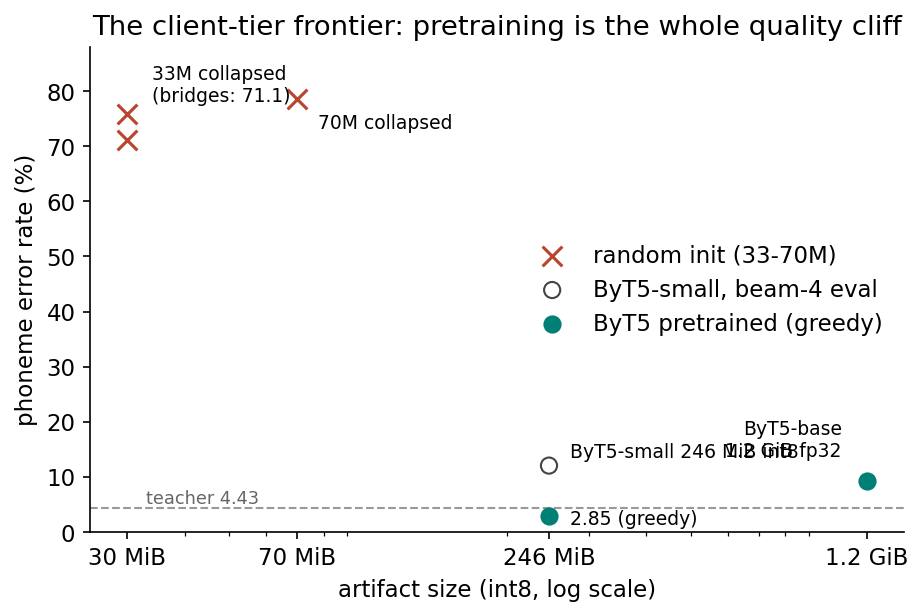
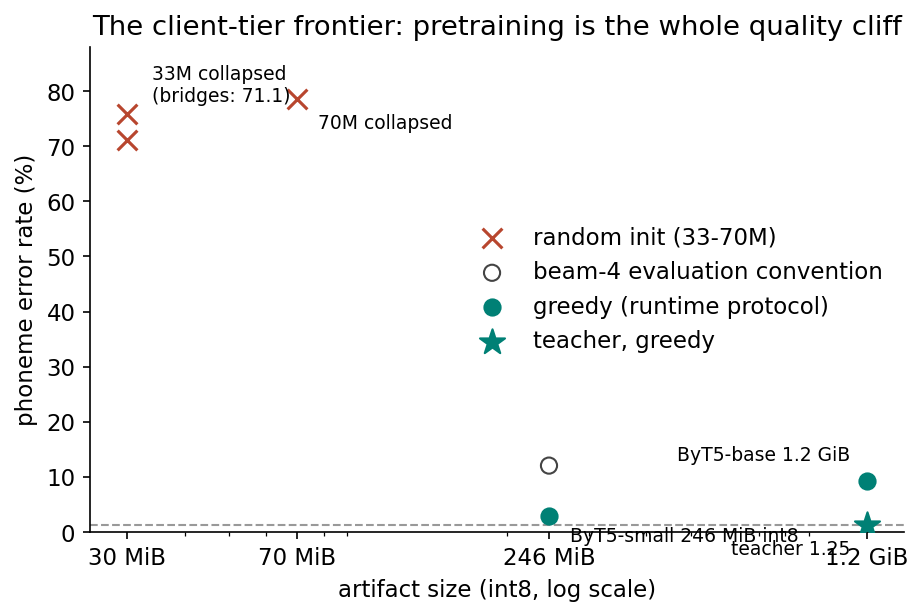
teacher measured at greedy: PER 1.25% — same-protocol client-tier gap is +1.60pp
The beam pathology inflated the teacher too (4.43 beam-4 → 1.25
greedy, n=1219, EM 95.16%). The Thai client tier's true shrink cost is
+1.60pp greedy-to-greedy, not the +7.63pp the beam-vs-beam comparison
suggested. Frontier figure, RESULTS table, metadata, metrics chain all
updated.

diff --git a/docs/RESULTS.md b/docs/RESULTS.md
@@ -85,10 +85,15 @@ better than the beam-4 harness numbers.** Re-measured on the shipped
 int4 zip through the Python runtime (the exact ONNX KV decode users
 get), true Levenshtein, full 1,219-sentence set:
 
-| Decode | PER | Exact match |
-|---|---|---|
-| beam-4 (published, torch harness) | 12.06% | 87.94% |
-| **greedy (runtime protocol)** | **2.85%** | **88.93%** |
+| Decode | Teacher PER | Student PER | Student EM |
+|---|---|---|---|
+| beam-4 (published, torch harness) | 4.43% | 12.06% | 87.94% |
+| **greedy (runtime protocol)** | **1.25%** | **2.85%** | **88.93%** |
+
+The teacher is also affected by the beam pathology (4.43 beam-4 → 1.25
+greedy, measured 2026-08-25 through the same harness at num_beams=1):
+same-protocol, the client tier's true shrink cost is **+1.60pp**, not
+the +7.63pp the beam-vs-beam comparison suggested.
 
 The beam-4 numbers are inflated by length-normalized beam preferring
 long garbage on this model's flat per-token distributions (top-1
